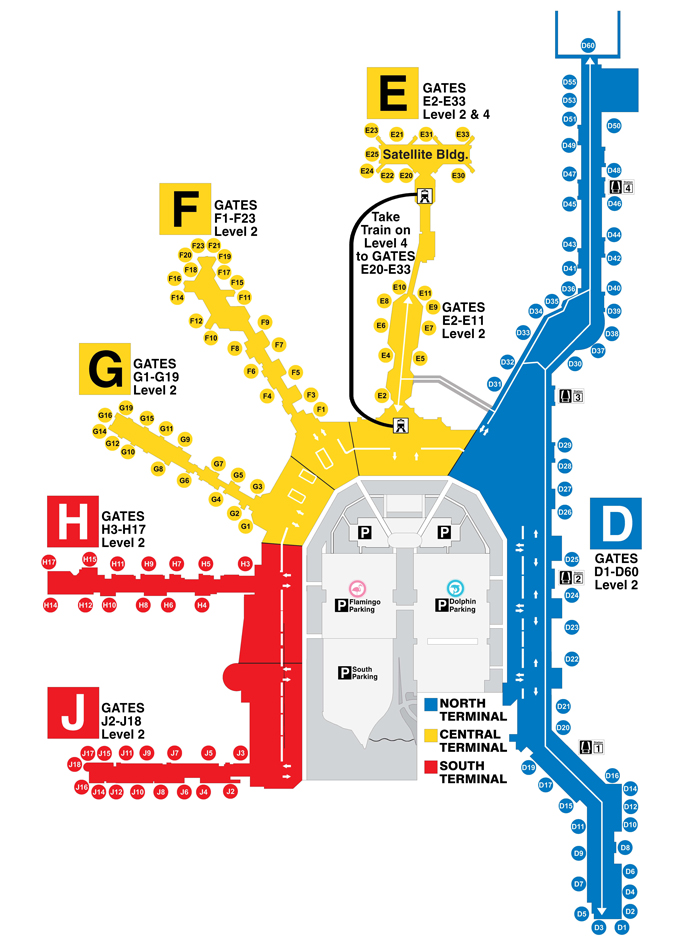
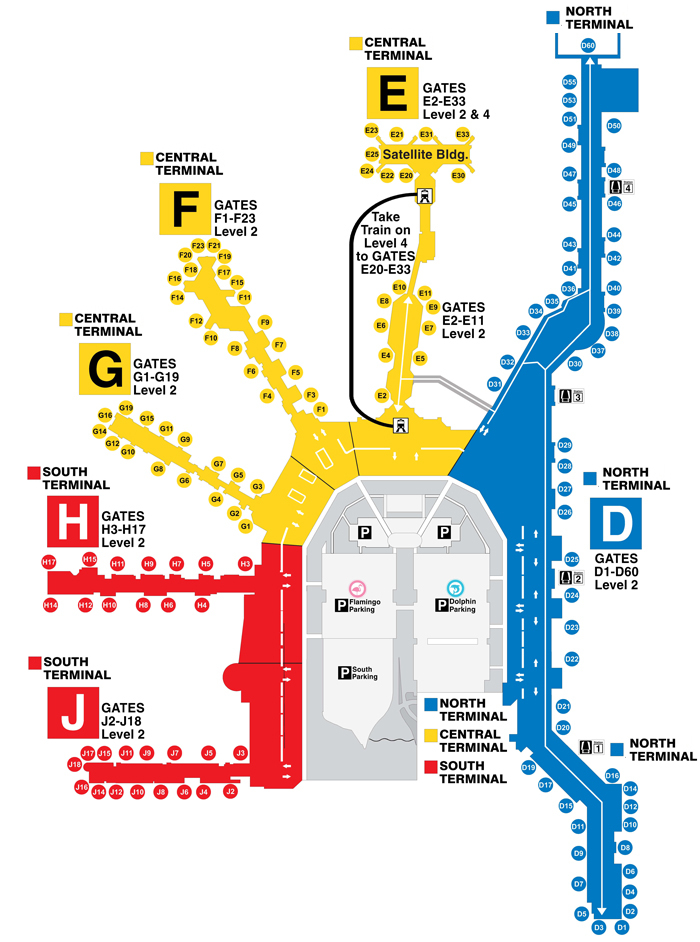
Build # 1.41

diff --git a/DropDownDigitalAiports/DiningViewController.m b/DropDownDigitalAiports/DiningViewController.m
@@ -429,7 +429,7 @@
                     *cuisine = @"",
                     *finalLocation = @"";
     
-    NSArray *Terminals = [[NSArray alloc] initWithObjects:@"A", @"B", @"C", @"D", @"E", @"F", @"H", @"T", nil],
+    NSArray *Terminals = [[NSArray alloc] initWithObjects:@"N", @"C",  @"S", nil],
     
                     *cuisines = [[NSArray alloc] initWithObjects: @"Mexican", @"American", @"Thai",
                                                                                             @"Italian",@"French", @"Sushi",@"Irish",

diff --git a/DropDownDigitalAiports/HomeViewController.m b/DropDownDigitalAiports/HomeViewController.m
@@ -596,7 +596,7 @@ self.addressLabel.layer.borderColor = [[UIColor lightGrayColor] CGColor];
         
         
         UIAlertView *alert = [[UIAlertView alloc] initWithTitle:@"Missing Child Reported!"
-                                                        message:@"" delegate:self
+                                                        message:@"Security Will Be Here Shortly." delegate:self
                                               cancelButtonTitle:@"Ok" otherButtonTitles:nil, nil];
         
         if (alert){

diff --git a/DropDownDigitalAiports/GroundTransportationViewController.m b/DropDownDigitalAiports/GroundTransportationViewController.m
@@ -376,7 +376,7 @@
                     *terminal = @"",
                     *finalLocation = @"";
     
-    NSArray *Terminals = [[NSArray alloc] initWithObjects:@"A", @"B", @"C", @"D", @"E", @"F", @"H", @"T", nil];
+    NSArray *Terminals = [[NSArray alloc] initWithObjects:@"N", @"C",  @"S", nil];
     
     NSInteger terminalId = arc4random_uniform(Terminals.count),
                         gateId = arc4random_uniform(50),

diff --git a/DropDownDigitalAiports/LoungesViewController.m b/DropDownDigitalAiports/LoungesViewController.m
@@ -389,7 +389,7 @@
                     *terminal = @"",
                     *finalLocation = @"";
     
-    NSArray *Terminals = [[NSArray alloc] initWithObjects:@"A", @"B", @"C", @"D", @"E", @"F", @"H", @"T", nil];
+    NSArray *Terminals = [[NSArray alloc] initWithObjects:@"N", @"C",  @"S", nil];
     
     NSInteger terminalId = arc4random_uniform(Terminals.count),
                      gateId = arc4random_uniform(50),

diff --git a/DropDownDigitalAiports/LimosViewController.m b/DropDownDigitalAiports/LimosViewController.m
@@ -181,7 +181,7 @@ AppDelegate *appDelegate;
     
     UITableViewCell *cell = nil;
     
-    NSArray *Terminals = [[NSArray alloc] initWithObjects:@"A", @"B", @"C", @"D", @"E", @"F", @"H", @"T", nil];
+    NSArray *Terminals = [[NSArray alloc] initWithObjects:@"N", @"C",  @"S", nil];
     
     NSInteger terminalId = arc4random_uniform(Terminals.count -1),
                       terminalIdToo = terminalId + 1,

diff --git a/DropDownDigitalAiports/ShopsViewController.m b/DropDownDigitalAiports/ShopsViewController.m
@@ -376,7 +376,7 @@
     *terminal = @"",
     *finalLocation = @"";
     
-    NSArray *Terminals = [[NSArray alloc] initWithObjects:@"A", @"B", @"C", @"D", @"E", @"F", @"H", @"T", nil];
+    NSArray *Terminals = [[NSArray alloc] initWithObjects:@"N", @"C",  @"S", nil];
     
     NSInteger terminalId = arc4random_uniform(Terminals.count),
                      gateId = arc4random_uniform(50),

diff --git a/DropDownDigitalAiports/FlightsViewController.m b/DropDownDigitalAiports/FlightsViewController.m
@@ -831,8 +831,8 @@
                 }
                 
                 [item.FlightValue setText:fligthDetail];
-        
-                [item.AircraftLabel setText:@"Destination's\nWeather: "];
+      //  Destination’s Forecasted Weather
+                [item.AircraftLabel setText:@"Destination's\nForecasted Weather: "];
                 
                 if (appDelegate.isiPhone){
  

diff --git a/DropDownDigitalAiports/CarRentalsViewController.m b/DropDownDigitalAiports/CarRentalsViewController.m
@@ -176,7 +176,7 @@
     
     UITableViewCell *cell = nil;
     
-    NSArray *Terminals = [[NSArray alloc] initWithObjects:@"A", @"B", @"C", @"D", @"E", @"F", @"H", @"T", nil];
+    NSArray *Terminals = [[NSArray alloc] initWithObjects:@"N", @"C",  @"S", nil];
     
     NSInteger terminalId = arc4random_uniform(Terminals.count - 1),
                      terminalIdToo = terminalId + 1,
